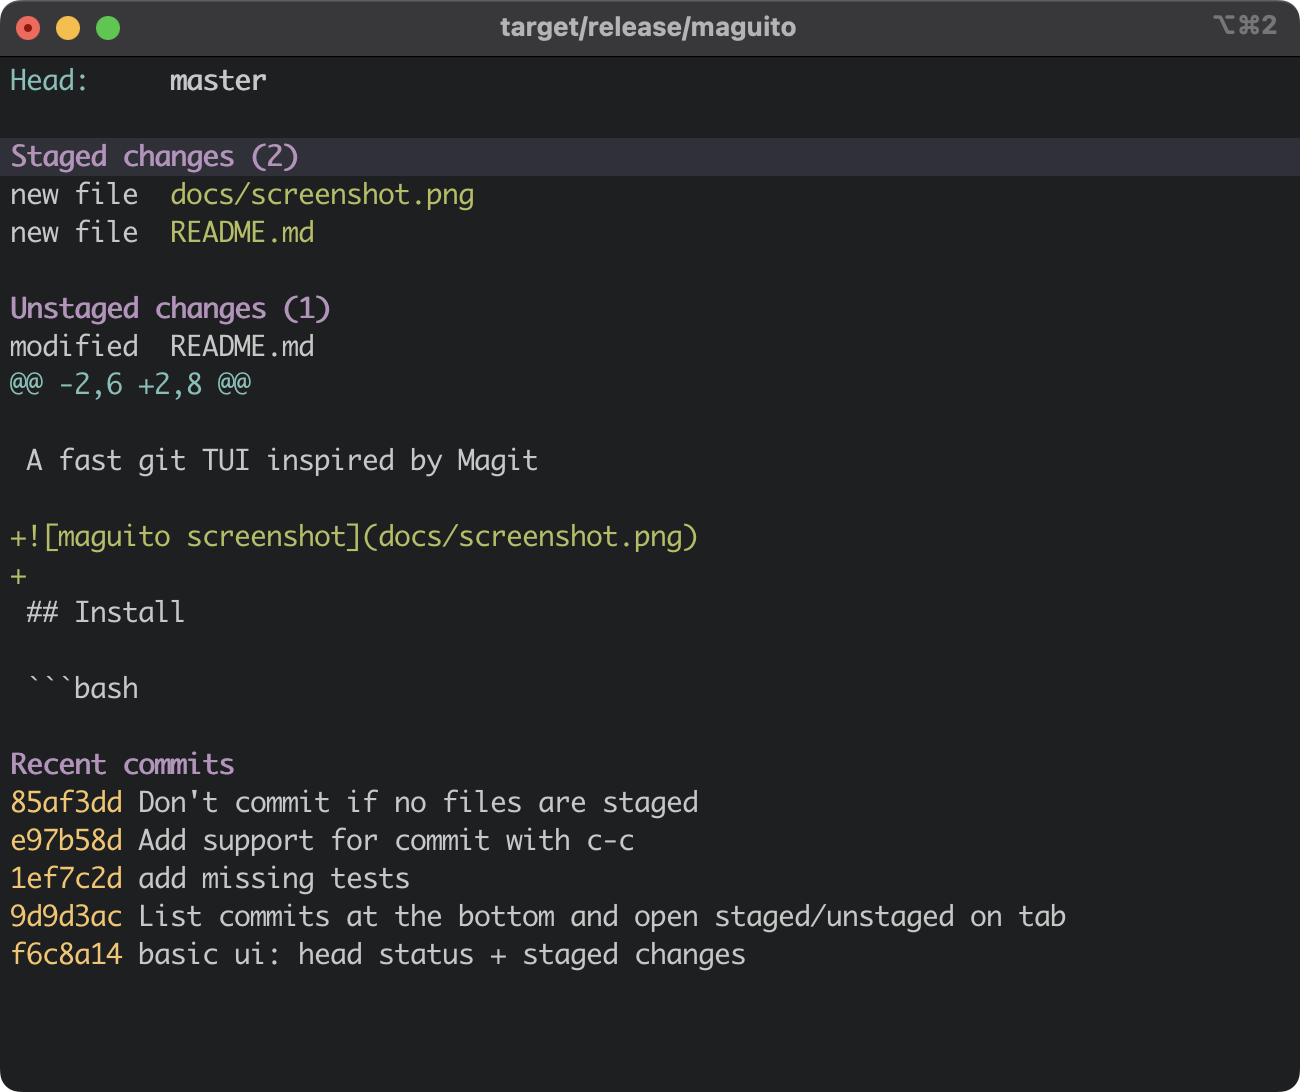
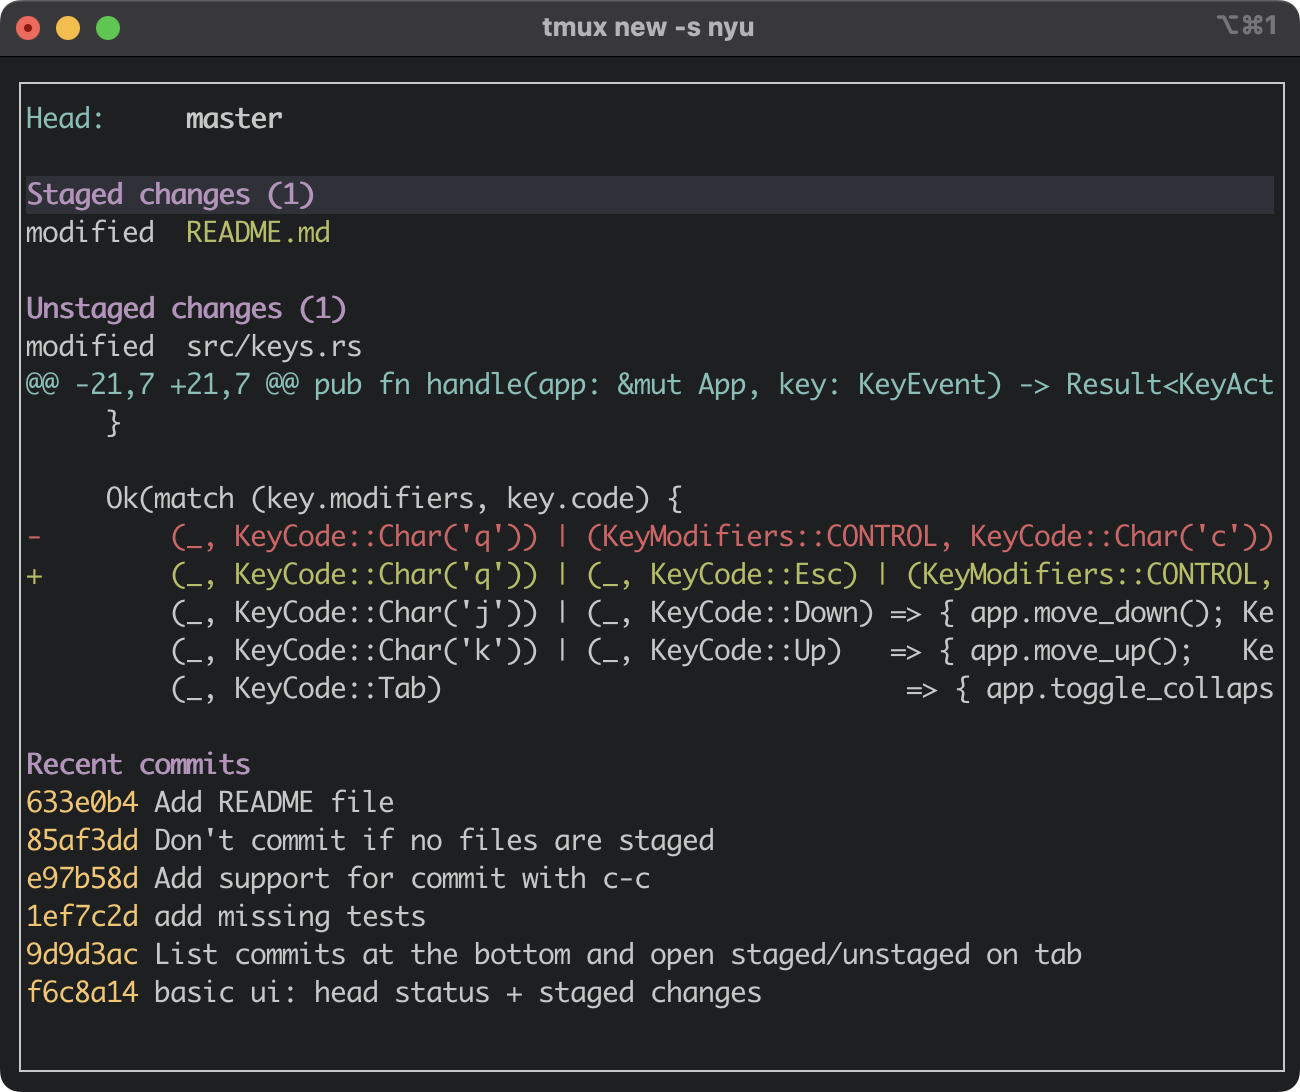
Close on ESC and use a dialog for the tmux binding

diff --git a/src/keys.rs b/src/keys.rs
@@ -21,7 +21,7 @@ pub fn handle(app: &mut App, key: KeyEvent) -> Result<KeyAction> {
     }
 
     Ok(match (key.modifiers, key.code) {
-        (_, KeyCode::Char('q')) | (KeyModifiers::CONTROL, KeyCode::Char('c')) => KeyAction::Quit,
+        (_, KeyCode::Char('q')) | (_, KeyCode::Esc) | (KeyModifiers::CONTROL, KeyCode::Char('c')) => KeyAction::Quit,
         (_, KeyCode::Char('j')) | (_, KeyCode::Down) => { app.move_down(); KeyAction::Continue }
         (_, KeyCode::Char('k')) | (_, KeyCode::Up)   => { app.move_up();   KeyAction::Continue }
         (_, KeyCode::Tab)                             => { app.toggle_collapse(); KeyAction::Continue }

diff --git a/README.md b/README.md
@@ -18,10 +18,10 @@ Run from any git repository:
 maguito
 ```
 
-Or bind it in `~/.tmux.conf`:
+Or bind it in `~/.tmux.conf` as a popup (press `Esc` or `q` to close):
 
 ```
-bind-key g split-window -h -c "#{pane_current_path}" "maguito"
+bind-key g display-popup -E -d "#{pane_current_path}" -w 90% -h 90% "maguito"
 ```
 
 ## Keys
@@ -34,4 +34,4 @@ bind-key g split-window -h -c "#{pane_current_path}" "maguito"
 | `u`       | Unstage file or hunk under cursor         |
 | `c c`     | Commit staged changes                     |
 | `g`       | Refresh                                   |
-| `q`       | Quit                                      |
+| `q` / `Esc` | Quit                                    |